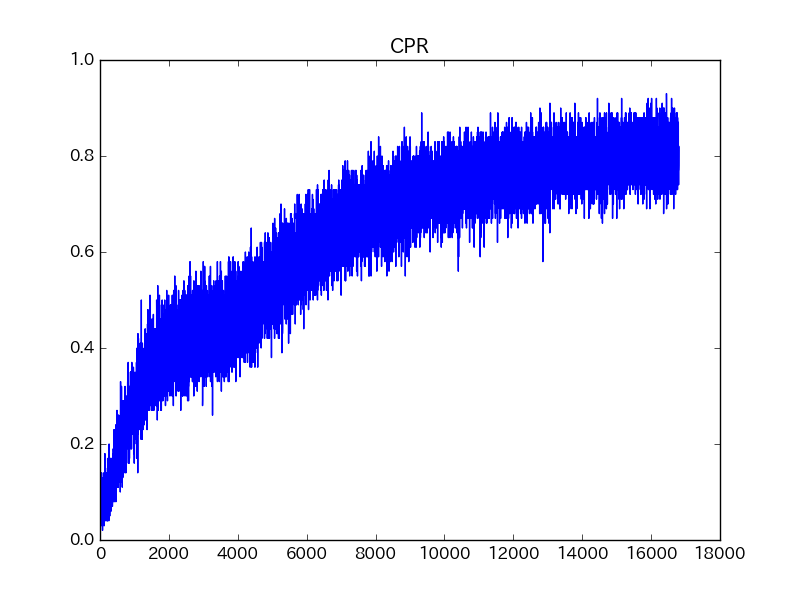
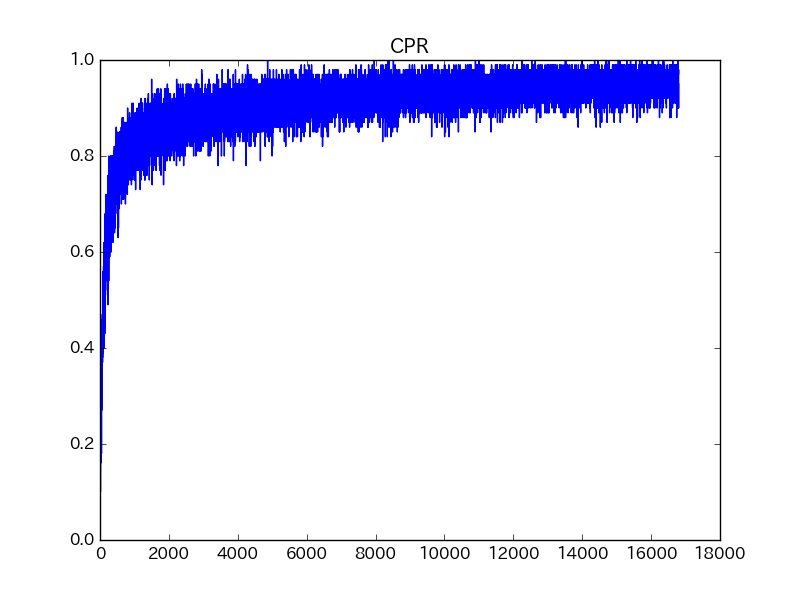
デルタの計算方法を修正

Changed region(s): [[0.125, 0.09, 0.875, 0.87]]

diff --git a/n-ken/mps20160723.py b/n-ken/mps20160723.py
@@ -86,17 +86,16 @@ if __name__ == '__main__':
     n_output_1 = 200
     W1 = np.random.randn(n_output_1, n_output_0)
     b1 = np.random.randn(n_output_1, 1)
-    # layer1 = Layer(W1, b1, relu)
     layer1 = Layer(W1, b1, sigmoid)
+    # layer1 = Layer(W1, b1, relu)
 
     # output layer
     # - 出力層が10ユニット(10クラス分類のため)
     n_output_2 = 10
     W2 = np.random.randn(n_output_2, n_output_1)
     b2 = np.random.randn(n_output_2, 1)
-    # layer2 = Layer(W2, b2, relu)
-    # layer2 = Layer(W2, b2, sigmoid)
     layer2 = Layer(W2, b2, softmax)
+    # layer2 = Layer(W2, b2, relu)
 
     # learning rate
     epsilon = 0.1
@@ -134,10 +133,9 @@ if __name__ == '__main__':
                 t = y_train[i, :].reshape(n_output_2, 1)
 
                 # 誤差逆伝播
-                # delta2 = d_se(t, y2) * d_relu(y2)
-                # delta1 = layer2._W.T @ delta2 * d_relu(y1)
-                delta2 = d_se(t, y2) * d_sigmoid(y2)
+                delta2 = d_se(t, y2)
                 delta1 = layer2._W.T @ delta2 * d_sigmoid(y1)
+                # delta1 = layer2._W.T @ delta2 * d_relu(y1)
 
                 # 各イテレーションの最初のデータを格納する
                 if i % (n_training_data) == 0:
